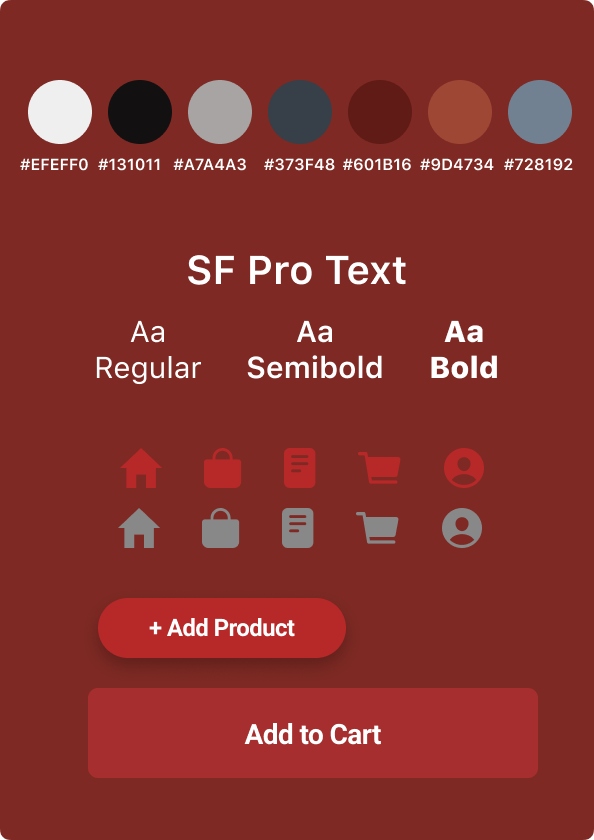
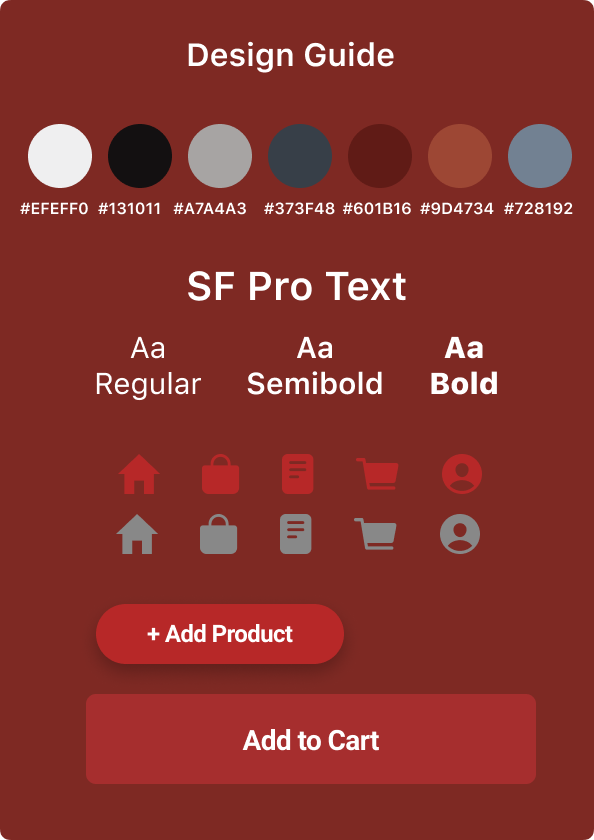
update

diff --git a/index.html b/index.html
@@ -52,7 +52,7 @@
 				</div>
 			</div>
 			<div class="row d-flex justify-content-center">
-				<div class="column">
+				<!-- <div class="column">
 					<a href="goodbook-app.html">
 						<div class="hvrbox">
 							<img
@@ -61,13 +61,13 @@
 								class="hvrbox-layer_bottom"
 							/>
 							<div class="hvrbox-layer_top">
-								<!-- <div class="hvrbox-text">Case Study</div> -->
+								<!-- <div class="hvrbox-text">Case Study</div> 
 							</div>
 						</div>
 						<div class="title">Money</div>
 						<div class="title-desc">Modern Finance App</div>
 					</a>
-				</div>
+				</div> -->
 				<div class="column">
 					<a href="ecommerce-app.html">
 						<div class="hvrbox">
@@ -76,7 +76,7 @@
 								alt=""
 								class="hvrbox-layer_bottom"
 							/>
-						</div>
+						</div> 
 						<div class="title">Souvenir</div>
 						<div class="title-desc">Ecommerce App</div>
 					</a>

diff --git a/ecommerce-app.html b/ecommerce-app.html
@@ -161,6 +161,9 @@
 					pandemic?
 				</li>
 			</ul>
+			<br />
+			<h3>4 – Design Guide and Wireframe</h3>
+			<br />
 			<img
 			src="./static/ecommerce-app/Design Guide.png"
 		    />
@@ -170,6 +173,7 @@
 			src="./static/ecommerce-app/Wireframe.png"
 		    />
 			<br />
+			<br />
 			<!-- <h3>4 – Mindmap</h3>
 			<br />
 			<img src="static/ecommerce-app/user flow souvenir.png" />
@@ -177,7 +181,7 @@
 			<br />
 			<h3>5 – Userflow</h3>
 			<br />
-			<img src="static/ecommerce-app/user flow souvenir.png" width="200px" />
+			<img src="static/ecommerce-app/User Flow.png" width="200px" />
 			<br />
 			<br />
 			<!-- <h3>6 – Crazy 8 Method</h3>
